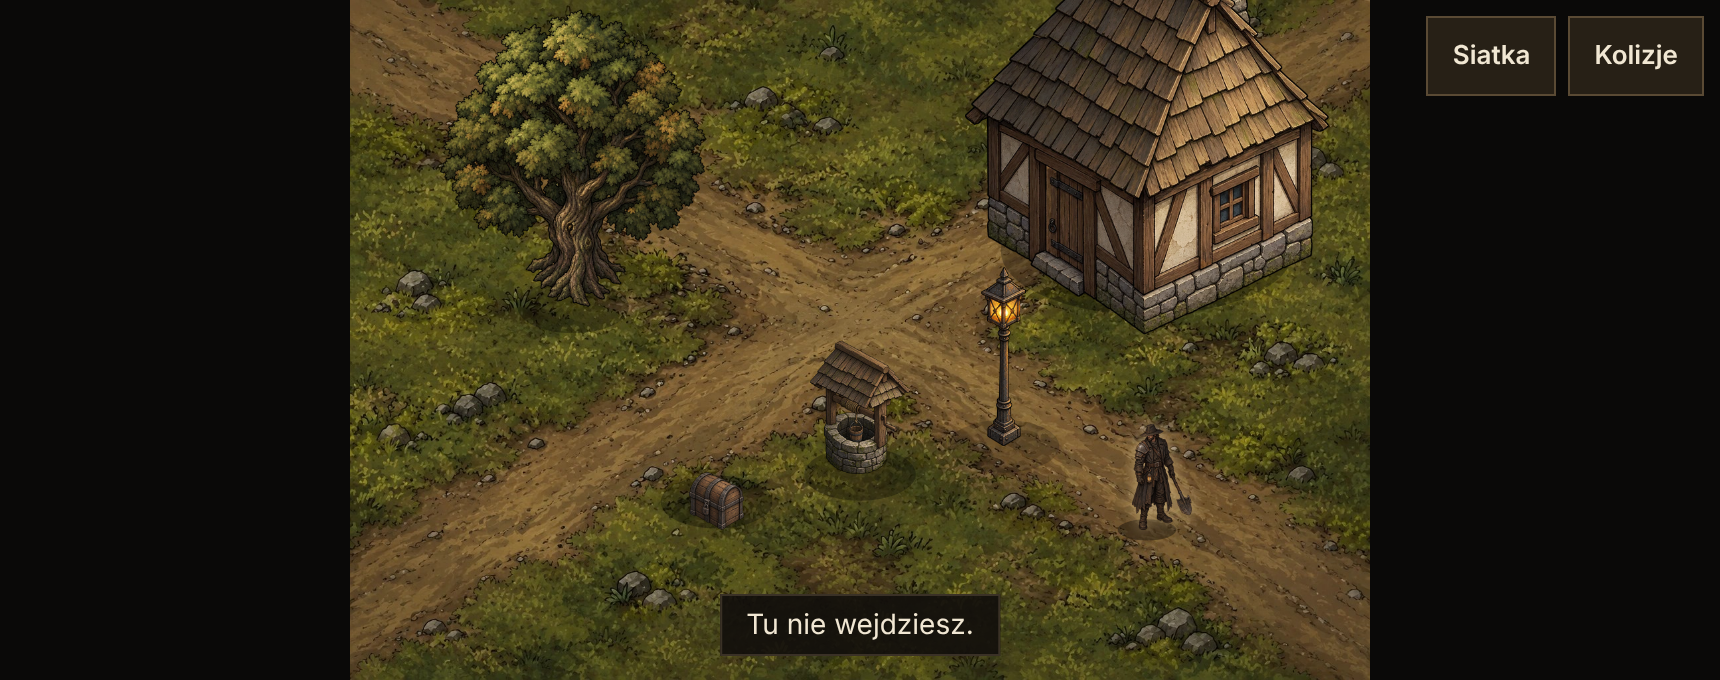
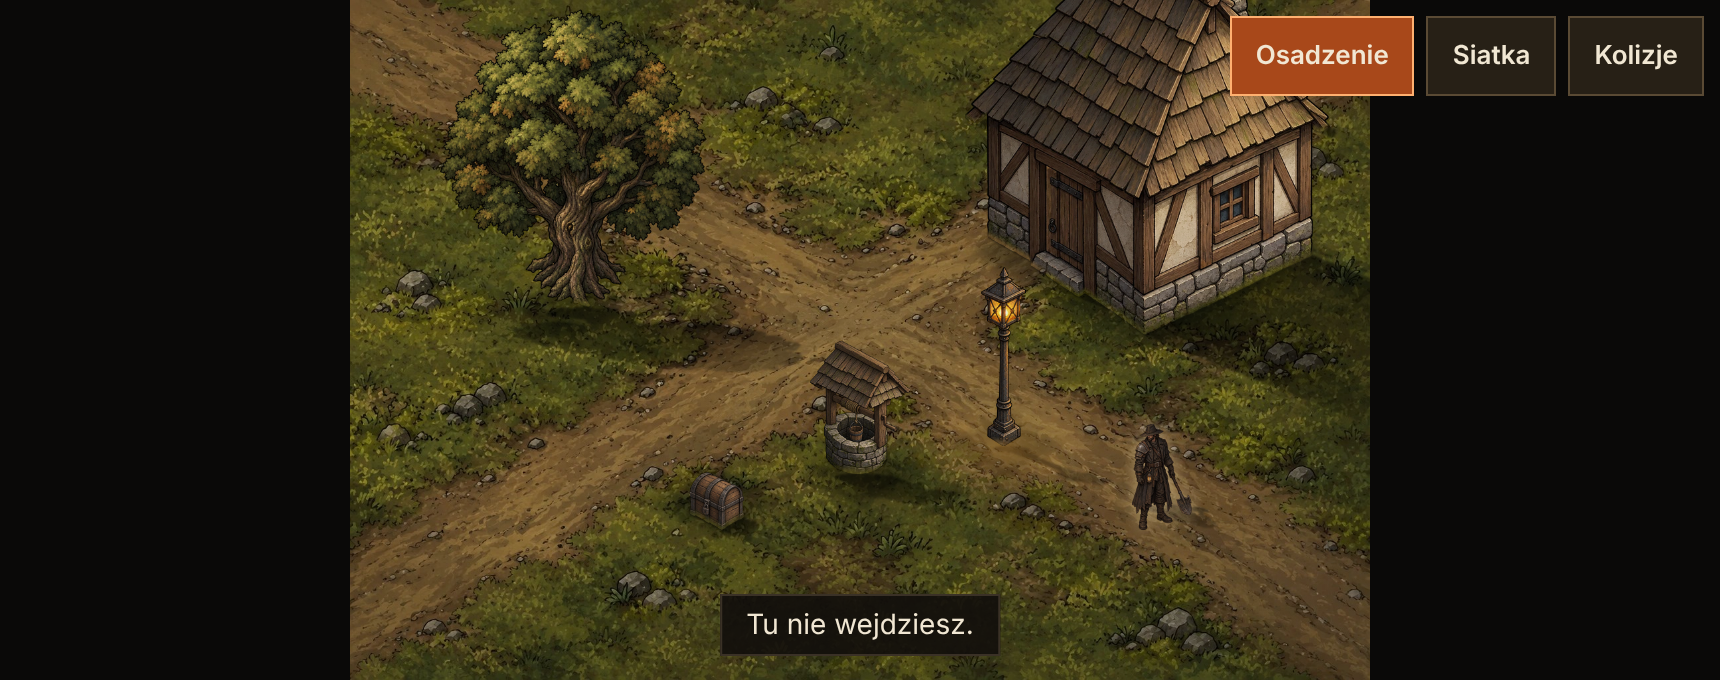
Mapy v3: osadzenie w podłożu (cień rzucony z sylwetki, zaczernienie przy podstawie, trawa nachodząca na dół obiektów, światło lampy, wspólna korekta tonu, cień bohatera) z przełącznikiem do porównania
Claude-Session: https://claude.ai/code/session_01YGgK3XekFYaLDhBRBtmmRq

diff --git a/mapy/podglad.html b/mapy/podglad.html
@@ -10,11 +10,12 @@ canvas{position:fixed;inset:0;width:100%;height:100%;touch-action:none;display:b
 #err{display:none;position:fixed;left:8px;right:8px;top:8px;z-index:9;background:#5a1a14;border:1px solid #ff7050;padding:10px}
 </style></head><body>
 <canvas id="c"></canvas><div id="err"></div>
-<div id="bar"><button id="bg">Siatka</button><button id="bc">Kolizje</button></div>
+<div id="bar"><button id="bo" class="on">Osadzenie</button><button id="bg">Siatka</button><button id="bc">Kolizje</button></div>
 <div id="msg">Dotknij ziemi, by tam pójść.</div>
 <script type="module">
 import {Iso, TW, TH} from './src/iso.js';
 import {buildMap} from './src/mapdata.js';
+import {shadowCanvas,sunkCanvas,pixelsOf,flipped} from './src/osadzenie.js';
 addEventListener('error',e=>{const b=document.getElementById('err');b.style.display='block';b.textContent='Błąd: '+e.message+'. Strona wymaga serwera (npm start) albo adresu https, nie pliku z dysku.'});
 const $=id=>document.getElementById(id),cv=$('c'),g=cv.getContext('2d');
 const LIB=window.__LIB||await (await fetch('gra/biblioteka.json')).json();
@@ -31,8 +32,25 @@ const M=buildMap(DEF),iso=M.iso;
 const [ground,...rest]=await Promise.all([load(LIB.ground.file),...Object.values(LIB.sprites).map(s=>load(s.file)),load(LIB.hero.idle_sw.file),load(LIB.hero.idle_ne.file),...LIB.hero.walk_w.map(f=>load(f.file))]);
 const names=Object.keys(LIB.sprites),IMG={};names.forEach((n,i)=>IMG[n]=rest[i]);
 const IDLE={sw:rest[names.length],ne:rest[names.length+1]},WALK=rest.slice(names.length+2);
+// ---- osadzenie w podłożu: wszystko, co statyczne, wypalamy raz w drugim obrazie podłoża ----
+const GP=pixelsOf(ground),mk=(w,h)=>{const c=document.createElement('canvas');c.width=w;c.height=h;return c};
+const objPos=o=>{const s=LIB.sprites[o.sprite],c=s.base==='center'?iso.toScreen(o.x-.5,o.y-.5):iso.toScreen(o.x,o.y);return {s,x:c[0],y:c[1],gx:Math.round(2*c[0]-s.w/2),gy:Math.round(2*c[1]-s.h)}};
+const baked=mk(1536,1024),bg_=baked.getContext('2d');bg_.drawImage(ground,0,0);
+const SUNK={};
+for(const o of DEF.objects){const P=objPos(o),fp=P.s.footprint;
+ // zaczernienie przy podstawie: rozmyty romb odcisku
+ const cx=o.x-fp.w/2,cy=o.y-fp.d/2,k=1.22,pts=[[-fp.w,-fp.d],[0,-fp.d],[0,0],[-fp.w,0]].map(([a,b])=>iso.toScreen(cx+(a+fp.w/2)*k,cy+(b+fp.d/2)*k));
+ bg_.save();bg_.filter='blur(9px)';bg_.fillStyle='rgba(8,10,4,.42)';bg_.beginPath();pts.forEach((q,i)=>i?bg_.lineTo(q[0]*2,q[1]*2):bg_.moveTo(q[0]*2,q[1]*2));bg_.closePath();bg_.fill();bg_.restore();
+ // cień rzucony z sylwetki
+ bg_.drawImage(shadowCanvas(IMG[o.sprite],P.s.base,1.6,.5),P.gx,P.gy);
+ SUNK[o.sprite]=sunkCanvas(IMG[o.sprite],P.s.base,GP.d,P.gx,P.gy,{band:P.s.base==='center'?16:12,strength:.85})}
+// światło lampy: ciepła plama na ziemi i poświata latarni
+for(const o of DEF.objects.filter(q=>q.sprite==='lampa')){const P=objPos(o);bg_.save();bg_.globalCompositeOperation='screen';
+ let r=bg_.createRadialGradient(0,0,0,0,0,150);r.addColorStop(0,'rgba(255,170,60,.38)');r.addColorStop(1,'rgba(255,170,60,0)');bg_.translate(P.x*2,P.y*2);bg_.scale(1,.52);bg_.fillStyle=r;bg_.fillRect(-150,-150,300,300);bg_.restore()}
+// cienie bohatera: dla każdej klatki i lustra
+const HSH=new Map(),hshadow=(img,m)=>{if(!HSH.has(img)){const f=flipped(img);HSH.set(img,{n:{c:shadowCanvas(img,'center',1.1,.5),ax:m.ax},f:{c:shadowCanvas(f,'center',1.1,.5),ax:m.w-m.ax}})}return HSH.get(img)};
 const hero={x:DEF.start[0],y:DEF.start[1],path:[],dir:'SW',t:0,walk:false};
-let showGrid=false,showCol=false,view={z:1,ox:0,oy:0},dpr=1,msgT=0;
+let showGrid=false,showCol=false,osad=true,view={z:1,ox:0,oy:0},dpr=1,msgT=0;
 const toast=t=>{const m=$('msg');m.textContent=t;m.style.opacity=1;clearTimeout(msgT);msgT=setTimeout(()=>m.style.opacity=.0,2400)};
 function resize(){dpr=Math.min(2,devicePixelRatio||1);cv.width=Math.round(innerWidth*dpr);cv.height=Math.round(innerHeight*dpr);const z=Math.min(innerWidth/768,innerHeight/512);view={z,ox:(innerWidth-768*z)/2,oy:(innerHeight-512*z)/2}}
 addEventListener('resize',resize);resize();
@@ -57,14 +75,13 @@ function frame(now){
   if(d<=sp){hero.x=tx;hero.y=ty;hero.path.shift();if(!hero.path.length){const ex=M.exitAt(Math.floor(hero.x),Math.floor(hero.y));if(ex)toast('Przejście do mapy "'+ex.map+'" (tu nastąpiłoby przeniesienie)')}}
   else{hero.x+=dx/d*sp;hero.y+=dy/d*sp;hero.walk=true;hero.t+=dt;hero.dir=sector((dx-dy)*TW/2,(dx+dy)*TH/2)}}
  g.setTransform(1,0,0,1,0,0);g.fillStyle='#0a0908';g.fillRect(0,0,cv.width,cv.height);
- g.drawImage(ground,view.ox*dpr,view.oy*dpr,768*view.z*dpr,512*view.z*dpr);
+ g.drawImage(osad?baked:ground,view.ox*dpr,view.oy*dpr,768*view.z*dpr,512*view.z*dpr);
  if(showGrid||showCol)for(const [cx,cy] of iso.cells()){const c=[[cx,cy],[cx+1,cy],[cx+1,cy+1],[cx,cy+1]].map(([a,b])=>S2(a,b)),bl=M.blocked(cx,cy),ex=M.exitAt(cx,cy);
   g.beginPath();c.forEach((p,i)=>i?g.lineTo(p[0]*dpr,p[1]*dpr):g.moveTo(p[0]*dpr,p[1]*dpr));g.closePath();
   if(showCol&&bl){g.fillStyle='rgba(255,40,40,.35)';g.fill()}if(showCol&&ex){g.fillStyle='rgba(60,160,255,.35)';g.fill()}
   if(showGrid){g.strokeStyle='rgba(255,255,255,.22)';g.lineWidth=dpr;g.stroke()}}
- // cienie kontaktowe
- for(const o of DEF.objects){const s=LIB.sprites[o.sprite],cx=o.x-s.footprint.w/2,cy=o.y-s.footprint.d/2;drawShadow(cx,cy,s.footprint.w*34+8,s.footprint.w*14+6,o.sprite==='lampa'?.2:.3)}
- drawShadow(hero.x,hero.y,22,8,.4);
+ if(!osad){for(const o of DEF.objects){const s=LIB.sprites[o.sprite],cx=o.x-s.footprint.w/2,cy=o.y-s.footprint.d/2;drawShadow(cx,cy,s.footprint.w*34+8,s.footprint.w*14+6,.3)}drawShadow(hero.x,hero.y,22,8,.4)}
+ else{const hp=heroSprite(),sh=hshadow(hp.img,hp.m),v=hp.mir?sh.f:sh.n,hp0=S2(hero.x,hero.y);drawImg(v.c,{w:v.c.width,h:v.c.height,ax:v.ax},hp0[0],hp0[1],{bob:0,alpha:.95})}
  // rysowanie od najdalszych: obiekty mapy i bohater według klucza głębi
  const list=DEF.objects.map(o=>({o,x:o.x,y:o.y,bias:LIB.sprites[o.sprite].base==='center'?-1:0,kind:'o'}));list.push({x:hero.x,y:hero.y,kind:'h'});
  list.sort((a,b)=>(a.x+a.y+(a.bias||0))-(b.x+b.y+(b.bias||0)));
@@ -73,7 +90,8 @@ function frame(now){
   if(it.kind==='h'){const hsp=heroSprite();drawImg(hsp.img,hsp.m,hs[0],hs[1],{mir:hsp.mir,glow:true,bob:hsp.bob})}
   else{const b=spriteBox(it.o),behind=(hero.x+hero.y)<(it.o.x+it.o.y+(it.bias||0));
    let a=1;if(b.s.fade&&behind&&hs[0]>b.l&&hs[0]<b.r&&hs[1]-80*view.z<b.b&&hs[1]>b.t)a=.45;
-   drawImg(IMG[it.o.sprite],b.s,b.x,b.y,{alpha:a})}}
+   drawImg(IMG[it.o.sprite],b.s,b.x,b.y,{alpha:a});if(osad)drawImg(SUNK[it.o.sprite],b.s,b.x,b.y,{alpha:a})}}
+ if(osad){g.save();g.globalCompositeOperation='multiply';const x0=view.ox*dpr,y0=view.oy*dpr,w=768*view.z*dpr,h=512*view.z*dpr,gr=g.createLinearGradient(x0,y0,x0+w,y0+h);gr.addColorStop(0,'rgb(255,250,238)');gr.addColorStop(1,'rgb(205,210,222)');g.globalAlpha=.55;g.fillStyle=gr;g.fillRect(x0,y0,w,h);g.restore()}
 }
 // dotyk: kafel pod palcem, ścieżka A*
 cv.addEventListener('pointerdown',e=>{const wx=(e.clientX-view.ox)/view.z,wy=(e.clientY-view.oy)/view.z,[cx,cy]=iso.cellAt(wx,wy);
@@ -81,8 +99,8 @@ cv.addEventListener('pointerdown',e=>{const wx=(e.clientX-view.ox)/view.z,wy=(e.
  const p=M.findPath([Math.floor(hero.x),Math.floor(hero.y)],[cx,cy]);if(!p){toast('Nie da się tam dojść.');return}
  hero.path=p.slice(1).map(([x,y])=>[x+.5,y+.5]);if(!hero.path.length)hero.path=[[cx+.5,cy+.5]]});
 const tg=(b,get,set)=>{$(b).onclick=()=>{set(!get());$(b).classList.toggle('on',get())}};
-tg('bg',()=>showGrid,v=>showGrid=v);tg('bc',()=>showCol,v=>showCol=v);
-addEventListener('keydown',e=>{if(e.key==='g')$('bg').click();if(e.key==='c')$('bc').click()});
+tg('bo',()=>osad,v=>osad=v);tg('bg',()=>showGrid,v=>showGrid=v);tg('bc',()=>showCol,v=>showCol=v);
+addEventListener('keydown',e=>{if(e.key==='o')$('bo').click();if(e.key==='g')$('bg').click();if(e.key==='c')$('bc').click()});
 window.__podglad={hero,M,view:()=>view,go:(cx,cy)=>{const p=M.findPath([Math.floor(hero.x),Math.floor(hero.y)],[cx,cy]);if(p)hero.path=p.slice(1).map(([x,y])=>[x+.5,y+.5]);return !!p}};
 requestAnimationFrame(frame);
 </script></body></html>

diff --git a/mapy/src/osadzenie.js b/mapy/src/osadzenie.js
@@ -1,0 +1,54 @@
+// Osadzenie sprite'ów w podłożu (mapy/SPEC.md, sekcja 2): jeden kierunek światła, cień rzucony z sylwetki, zaczernienie przy podstawie,
+// trawa nachodząca na dół obiektu. Część czysta (tablice pikseli), więc testowalna w node; rysowanie pomocnicze na końcu.
+export const LIGHT = { kx: 0.55, ky: 0.22 };   // przesunięcie cienia na ekranie na jednostkę wysokości: w prawo i w stronę widza (światło z lewej góry)
+
+// linia gruntu każdej kolumny: base 'corner' = dolny zarys sylwetki w tej kolumnie (podstawa bryły), 'center' = dolny wiersz sylwetki (pień, słup)
+export function groundLine(alpha, w, h, base = 'center', thr = 128) {
+  const gl = new Int32Array(w).fill(-1);
+  if (base === 'corner') { for (let x = 0; x < w; x++) for (let y = h - 1; y >= 0; y--) if (alpha[y * w + x] >= thr) { gl[x] = y; break; } return gl; }
+  let yb = -1; for (let y = h - 1; y >= 0 && yb < 0; y--) for (let x = 0; x < w; x++) if (alpha[y * w + x] >= thr) { yb = y; break; }
+  return gl.fill(yb);
+}
+
+// cień rzucony: każdy piksel sylwetki ląduje na gruncie w odległości proporcjonalnej do wysokości nad linią gruntu; słabnie ku końcowi
+export function shadowMask(alpha, w, h, { base = 'center', kx = LIGHT.kx, ky = LIGHT.ky, thr = 128 } = {}) {
+  const gl = groundLine(alpha, w, h, base, thr), W = w + Math.ceil(h * kx) + 3, H = h + Math.ceil(h * ky) + 3, data = new Uint8ClampedArray(W * H);
+  for (let y = 0; y < h; y++) for (let x = 0; x < w; x++) {
+    if (alpha[y * w + x] < thr || gl[x] < 0) continue;
+    const hp = Math.max(0, gl[x] - y), dx = Math.round(x + hp * kx), dy = Math.round(gl[x] + hp * ky), v = Math.round(255 * (1 - 0.55 * hp / h));
+    for (const [ox, oy] of [[0, 0], [1, 0], [0, 1], [1, 1]]) { const i = (dy + oy) * W + dx + ox; if (v > data[i]) data[i] = v; }
+  }
+  return { data, w: W, h: H };
+}
+
+// nachodzenie podłoża na dolny pas sprite'a: maska 0..255 na pikselach sylwetki, najmocniejsza przy linii gruntu
+export function sunkMask(alpha, w, h, { base = 'center', band = 14, strength = 0.8, thr = 128 } = {}) {
+  const gl = groundLine(alpha, w, h, base, thr), out = new Uint8ClampedArray(w * h);
+  for (let y = 0; y < h; y++) for (let x = 0; x < w; x++) {
+    const a = alpha[y * w + x]; if (a < 16 || gl[x] < 0) continue; const d = gl[x] - y; if (d >= band) continue;
+    const t = 1 - Math.max(0, d) / band; out[y * w + x] = Math.round(a * strength * t * t * (3 - 2 * t));
+  }
+  return out;
+}
+
+export const alphaOf = (rgba) => { const a = new Uint8ClampedArray(rgba.length / 4); for (let i = 0; i < a.length; i++) a[i] = rgba[i * 4 + 3]; return a; };
+
+// ---- rysowanie (wymaga DOM) ----
+const canvas = (w, h) => { const c = document.createElement('canvas'); c.width = w; c.height = h; return c; };
+export function pixelsOf(img) { const c = canvas(img.width, img.height), g = c.getContext('2d', { willReadFrequently: true }); g.drawImage(img, 0, 0); return { c, g, d: g.getImageData(0, 0, c.width, c.height) }; }
+export function flipped(img) { const c = canvas(img.width, img.height), g = c.getContext('2d'); g.translate(img.width, 0); g.scale(-1, 1); g.drawImage(img, 0, 0); return c; }
+// cień jako canvas w pikselach sprite'a (lewy górny róg ten sam co sprite), czarny z maską, lekko rozmyty
+export function shadowCanvas(img, base, blur = 1.4, strength = 0.46) {
+  const { d } = pixelsOf(img), m = shadowMask(alphaOf(d.data), d.width, d.height, { base }), src = canvas(m.w, m.h), g = src.getContext('2d'), id = g.createImageData(m.w, m.h);
+  for (let i = 0; i < m.data.length; i++) id.data[i * 4 + 3] = m.data[i] * strength;
+  g.putImageData(id, 0, 0); const out = canvas(m.w, m.h), og = out.getContext('2d'); og.filter = `blur(${blur}px)`; og.drawImage(src, 0, 0); return out;
+}
+// podłoże nachodzące na dół sprite'a: piksele podłoża z obrazu ground w miejscu sprite'a, przemnożone maską
+export function sunkCanvas(img, base, ground, gx, gy, opt) {
+  const { d } = pixelsOf(img), mask = sunkMask(alphaOf(d.data), d.width, d.height, { base, ...opt }), out = canvas(d.width, d.height), g = out.getContext('2d'), id = g.createImageData(d.width, d.height);
+  for (let y = 0; y < d.height; y++) for (let x = 0; x < d.width; x++) {
+    const i = y * d.width + x; if (!mask[i]) continue; const px = gx + x, py = gy + y; if (px < 0 || py < 0 || px >= ground.width || py >= ground.height) continue;
+    const k = (py * ground.width + px) * 4; id.data[i * 4] = ground.data[k]; id.data[i * 4 + 1] = ground.data[k + 1]; id.data[i * 4 + 2] = ground.data[k + 2]; id.data[i * 4 + 3] = mask[i];
+  }
+  g.putImageData(id, 0, 0); return out;
+}

diff --git a/tools/build_podglad.py b/tools/build_podglad.py
@@ -7,8 +7,8 @@ files = [lib['ground']['file'], lib['hero']['idle_sw']['file'], lib['hero']['idl
 mime = lambda f: 'image/jpeg' if f.endswith('.jpg') else 'image/png'
 assets = {f: 'data:%s;base64,%s' % (mime(f), base64.b64encode(open(os.path.join(R, 'gra', f), 'rb').read()).decode()) for f in files}
 def strip(src): return re.sub(r'^import .*?;\s*$', '', re.sub(r'^export ', '', src, flags=re.M), flags=re.M)
-iso = strip(open(os.path.join(R, 'src', 'iso.js'), encoding='utf-8').read()); md = strip(open(os.path.join(R, 'src', 'mapdata.js'), encoding='utf-8').read())
+iso = strip(open(os.path.join(R, 'src', 'iso.js'), encoding='utf-8').read()); md = strip(open(os.path.join(R, 'src', 'mapdata.js'), encoding='utf-8').read()) + '\n' + strip(open(os.path.join(R, 'src', 'osadzenie.js'), encoding='utf-8').read())
 head = '<script>window.__LIB=%s;window.__ASSETS=%s;</script>\n' % (json.dumps(lib), json.dumps(assets))
-page = re.sub(r"^import \{.*?\} from '\./src/(iso|mapdata)\.js';\n", '', page, flags=re.M)
+page = re.sub(r"^import \{.*?\} from '\./src/(iso|mapdata|osadzenie)\.js';\n", '', page, flags=re.M)
 page = page.replace('<script type="module">', head + '<script type="module">\n' + iso + '\n' + md + '\n', 1)
 open(out, 'w', encoding='utf-8').write(page); print(out, round(len(page) / 1e6, 2), 'MB')
